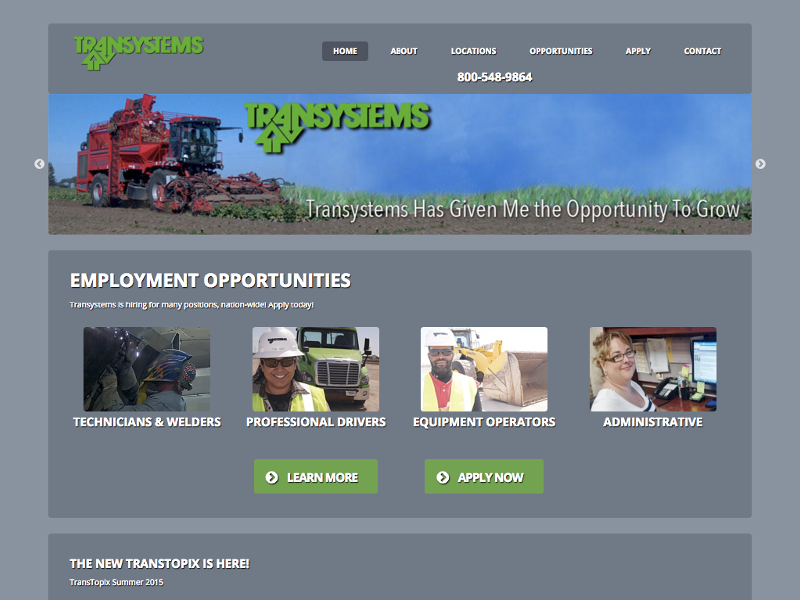
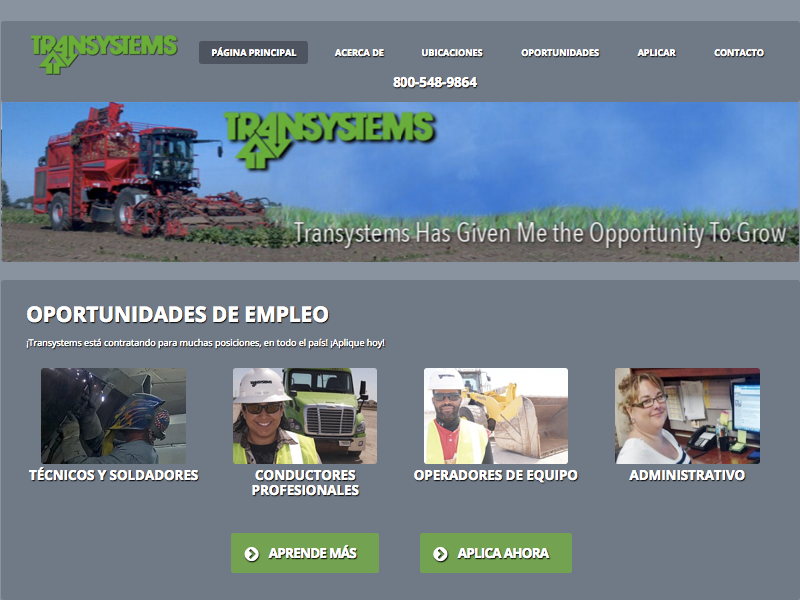
Add transystems

diff --git a/app/views/consulting.html b/app/views/consulting.html
@@ -34,6 +34,10 @@
               <div>AMPCognition and NetSuite</div>
               <img src="images/consulting/ampcognition-demo.png">
             </li>
+            <li ng-click="scrollToDescription()" ng-mousedown="changeContent('transystems')">
+              <div>TranSystems</div>
+              <img src="images/consulting/transystemsllc-demo.png">
+            </li>
             <li ng-click="scrollToDescription()" ng-mousedown="changeContent('evperks')">
               <div>EVPerks</div>
               <img src="images/consulting/evperks-demo.png">
@@ -111,6 +115,25 @@
               <ul class="technologies">
                 <li><img title="NetSuite OneWorld" class="image" src="images/technologies/netsuite-icon.png"></li>
                 <li><img title="Node.js" class="image" src="images/technologies/node-icon.png"></li>
+              </ul>
+            </div>
+
+            <div ng-switch-when="transystems">
+              <header>
+                <h2>TranSystems</h2>
+                <p>Agricultural Trucking</p>
+              </header>
+              <p>
+                TranSystems needed a new mobile-first website before the 2015
+                harvest season. They were looking to hire new drivers, and
+                wanted their site to work equally well for English and Spanish
+                speakers/readers. We did all that, and even integrated their
+                existing database.
+              </p>
+              <ul class="technologies">
+                <li><img title="HTML5" class="image" src="images/technologies/html5-icon.png"></li>
+                <li><img title="AngularJS" class="image" src="images/technologies/angular-icon.png"></li>
+                <li><img title="ASP.NET" class="image" src="images/technologies/aspnet-icon.jpg"></li>
               </ul>
             </div>
 
